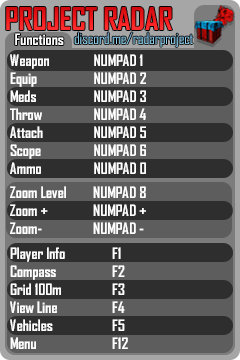
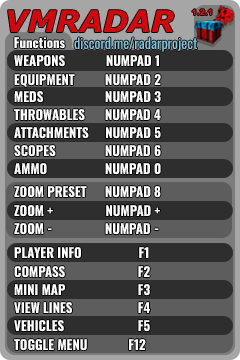
Menu Toggles
Menu Toggles

Changed region(s): [[0.0, 0.0, 0.8458, 0.9778], [0.7875, 0.0, 0.9042, 0.0611]]

diff --git a/src/main/kotlin/pubgradar/ui/GLMap.kt b/src/main/kotlin/pubgradar/ui/GLMap.kt
@@ -100,7 +100,7 @@ class GLMap : InputAdapter(), ApplicationListener, GameListener {
 
     fun show() {
         val config = Lwjgl3ApplicationConfiguration()
-        config.setTitle("[${localAddr.hostAddress} ${sniffOption.name}] - PUBG Radar By AiYinZiLeGong")
+        config.setTitle("[${localAddr.hostAddress} ${sniffOption.name}] - VMRadar v1.2.1")
         config.setWindowIcon(Files.FileType.Internal, "icon.png")
         config.useOpenGL3(true, 3, 3)
         config.setWindowedMode(initialWindowWidth.toInt(), initialWindowWidth.toInt())
@@ -180,10 +180,10 @@ class GLMap : InputAdapter(), ApplicationListener, GameListener {
     private var drawcompass = -1
     private var drawmenu = 1
     private var toggleView = 1
-    private var drawDaMap = -1
+    private var drawDaMap = 1
     // private var toggleVehicles = -1
     //  private var toggleVNames = -1
-    private var drawgrid = -1
+    private var drawMinimap = -1
     private var nameToggles = 4
     private var VehicleInfoToggles = 1
     private var ZoomToggles = 1
@@ -305,7 +305,7 @@ class GLMap : InputAdapter(), ApplicationListener, GameListener {
             }
         // Other Filter Keybinds
             F2 -> drawcompass = drawcompass * -1
-        //        F3 -> drawgrid = drawgrid * -1
+
 
         // Toggle View Line
             F4 -> toggleView = toggleView * -1
@@ -795,7 +795,7 @@ class GLMap : InputAdapter(), ApplicationListener, GameListener {
                 else
                     menuFontOn.draw(spriteBatch, "Enabled", 187f, windowHeight / 2 + -107f)
 
-                // Grid
+
                 if (drawDaMap == 1)
 
                     menuFontOn.draw(spriteBatch, "Enabled", 187f, windowHeight / 2 + -125f)
@@ -871,8 +871,10 @@ class GLMap : InputAdapter(), ApplicationListener, GameListener {
         Gdx.gl.glDisable(GL20.GL_BLEND)
         clipBound.set(miniMapRegion)
         camera = miniMapCamera
-        drawMiniMap(parachutes, players, vehicles)
-    }
+
+        if (drawDaMap == 1) {
+            drawMiniMap(parachutes, players, vehicles)
+        }}
 
   private fun ShapeRenderer.drawPlayersH(players:ArrayList<renderInfo>?) {
       //draw self

diff --git a/README.md b/README.md
@@ -1,6 +1,6 @@
 #### By engaging with this repository you explicitly agree with the terms of the Unlicense.
 
-![Discord for updates](https://i.imgur.com/gUFVsxQ.jpg)
+![Imgur](https://i.imgur.com/PDjwkyR.jpg)
 
 
 join us on [Discord for updates](https://discord.me/radarproject)
